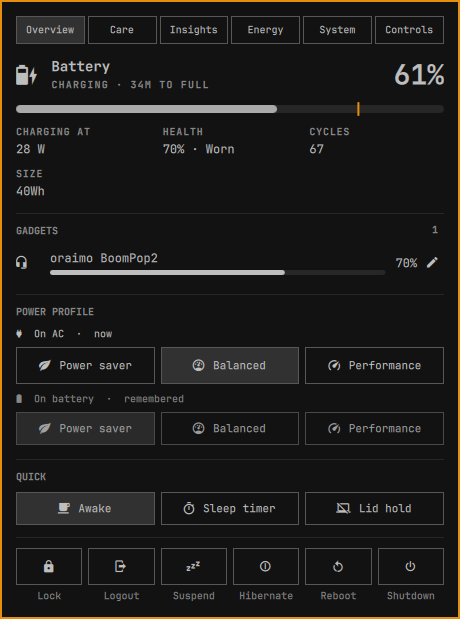
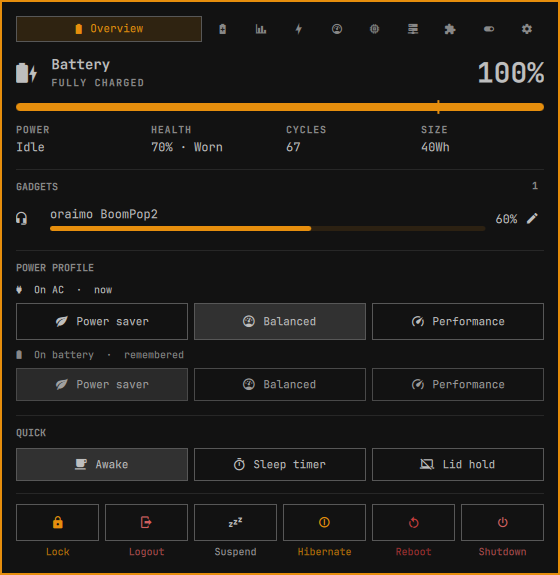
GPU memory, instant marketplace, new preview
System > Hardware: each GPU's memory (AMD VRAM from sysfs; NVIDIA total

and use from NVML while awake, the total remembered for when it sleeps,

plus the driver version; integrated Intel as shared memory with its top

clock).

Marketplace: the cached catalog shows at once; a stale one is refreshed

in the background and swapped in without rebuilding the cards.

System tab icon: a gauge (the old glyph was the Spotify logo).

Preview: the Overview, Processes and Plugins tabs under the new name;

CHANGELOG states the sampler's measured cost with its child commands.

diff --git a/docs/preview/preview.html b/docs/preview/preview.html
@@ -11,7 +11,7 @@
     --accent: #e68e0d;
   }
   * { box-sizing: border-box; margin: 0; padding: 0; }
-  html, body { width: 2000px; height: 1400px; background: var(--bg); }
+  html, body { width: 2000px; height: 1240px; background: var(--bg); }
   body {
     font-family: "JetBrainsMono Nerd Font", "JetBrains Mono", monospace;
     color: var(--text);
@@ -45,7 +45,7 @@
   figcaption span { font-size: 21px; color: var(--muted); white-space: nowrap; overflow: hidden; text-overflow: ellipsis; }
   .shots { justify-content: space-between; }
   figure img {
-    display: block; width: 580px; height: 780px; object-fit: cover; object-position: top;
+    display: block; width: 580px; height: 596px; object-fit: cover; object-position: top;
     border-radius: 4px;
     box-shadow: 0 30px 60px rgba(0, 0, 0, 0.55), 0 0 0 1px rgba(255, 255, 255, 0.03);
   }
@@ -66,7 +66,7 @@
       <div class="icon"></div>
       <div>
         <h1>OmniSystem <span>Center</span></h1>
-        <p class="tagline">Battery, energy, sensors, processes, ports and plugins in one panel.</p>
+        <p class="tagline">Your whole machine in one Omarchy panel.</p>
       </div>
     </div>
     <div class="pills">
@@ -85,22 +85,22 @@
       <img src="overview.png">
     </figure>
     <figure>
-      <figcaption><b>ENERGY</b><span>kWh and cost, measured share</span></figcaption>
-      <img src="energy.png">
+      <figcaption><b>PROCESSES</b><span>CPU, GPU, memory, end or kill</span></figcaption>
+      <img src="processes.png">
     </figure>
     <figure>
-      <figcaption><b>SYSTEM</b><span>sensors, GPUs, the hardware</span></figcaption>
-      <img src="system.png">
+      <figcaption><b>PLUGINS</b><span>installed, marketplace, the bar</span></figcaption>
+      <img src="plugins.png">
     </figure>
   </section>
 
   <section class="features">
-    <div class="f"><i></i><div><b>Live draw in the bar</b><p>What the machine draws, and a GPU icon with its watts while one is awake.</p></div></div>
-    <div class="f"><i></i><div><b>Energy and cost</b><p>Per day, week, month and year; never an estimate shown as a measurement.</p></div></div>
-    <div class="f"><i></i><div><b>Charge care</b><p>Limit, sailing, top-up, heat protection and calibration where the hardware allows.</p></div></div>
-    <div class="f"><i></i><div><b>Gadget batteries</b><p>Mice, keyboards, headsets and earbuds, per earbud and case.</p></div></div>
-    <div class="f"><i></i><div><b>Warnings that stick</b><p>Low and critical levels, with a countdown you can cancel.</p></div></div>
-    <div class="f"><i></i><div><b>Power at hand</b><p>Profiles per power source, keep awake, sleep timer, lock to shutdown.</p></div></div>
+    <div class="f"><i></i><div><b>Energy and cost</b><p>Live draw and GPU in the bar; kWh, cost and a monthly budget per day to year.</p></div></div>
+    <div class="f"><i></i><div><b>Battery care</b><p>Charge limit (kernel, Apple, UPower, Acer), sailing, top-up, heat protection.</p></div></div>
+    <div class="f"><i></i><div><b>System</b><p>Every sensor and GPU, memory, disk and swap, and what the machine is.</p></div></div>
+    <div class="f"><i></i><div><b>Ports</b><p>Listeners by project, how far each reaches, dev servers counted in the bar.</p></div></div>
+    <div class="f"><i></i><div><b>Plugins</b><p>Marketplace with reviewed installs, update previews, bar layout, widget settings.</p></div></div>
+    <div class="f"><i></i><div><b>Power at hand</b><p>Sleep checks, warnings, profiles, keep awake, timer, lock to shutdown.</p></div></div>
   </section>
 </body>
 </html>

diff --git a/lib/Model.js b/lib/Model.js
@@ -1352,6 +1352,21 @@ function swapText(swaps) {
   return parts.join(" · ")
 }
 
+// A GPU's memory in a few words: "6 GB VRAM · 344 MB used", "Shares system
+// memory · up to 1.45 GHz", "512 MB reserved + shared".
+function gpuMemoryText(mem) {
+  if (!mem) return ""
+  function gb(b) { return b >= 1073741824 ? (Math.round(b / 1073741824 * 10) / 10) + " GB" : Math.round(b / 1048576) + " MB" }
+  var parts = []
+  if (mem.total > 0 && mem.shared) parts.push(gb(mem.total) + " reserved + shared")
+  else if (mem.total > 0) parts.push(gb(mem.total) + " VRAM")
+  else if (mem.shared) parts.push("Shares system memory")
+  if (typeof mem.used === "number" && mem.used >= 0 && mem.total > 0) parts.push(gb(mem.used) + " used")
+  if (mem.maxMHz) parts.push("up to " + formatMHz(mem.maxMHz))
+  if (mem.driver) parts.push("driver " + mem.driver)
+  return parts.join(" · ")
+}
+
 // Everything on the System tab as plain text, for "Copy all". No serial
 // numbers are ever read, so none can end up here.
 function deviceSummary(dev, live) {
@@ -1376,7 +1391,10 @@ function deviceSummary(dev, live) {
   add("Memory", dev.memory && dev.memory.total ? formatBytes(dev.memory.total) : "")
   add("Disk", diskText(dev.storage))
   if (dev.storage && dev.storage.fs) add("Root", dev.storage.fs + (dev.storage.encrypted ? ", encrypted" : ""))
-  for (var i = 0; i < (dev.pci || []).length; i++) add(dev.pci[i].kind, dev.pci[i].name)
+  for (var i = 0; i < (dev.pci || []).length; i++) {
+    var mem = gpuMemoryText(dev.pci[i].memory)
+    add(dev.pci[i].kind, dev.pci[i].name + (mem ? " (" + mem + ")" : ""))
+  }
   for (var j = 0; j < (dev.usb || []).length; j++) add("USB", dev.usb[j].name)
   if (dev.battery) add("Battery", [dev.battery.maker, dev.battery.model, dev.battery.chemistry].filter(function(x) { return x }).join(" "))
   add("Uptime", formatUptime(l.uptime))
@@ -1469,7 +1487,7 @@ var TABS = {
   care: { icon: "", label: "Care", tint: ["green", "bright_green", "accent"] },
   insights: { icon: "", label: "Insights", tint: ["cyan", "bright_cyan", "accent"] },
   energy: { icon: "", label: "Energy", tint: ["yellow", "bright_yellow", "accent"] },
-  system: { icon: "", label: "System", tint: ["blue", "bright_blue", "accent"] },
+  system: { icon: "", label: "System", tint: ["blue", "bright_blue", "accent"] },
   processes: { icon: "", label: "Processes", tint: ["magenta", "bright_magenta", "accent"] },
   ports: { icon: "", label: "Ports", tint: ["orange", "red", "accent"] },
   plugins: { icon: "", label: "Plugins", tint: ["bright_blue", "blue", "accent"] },

diff --git a/Service.qml b/Service.qml
@@ -1651,13 +1651,25 @@ Item {
     run([pluginsCmd, "local"], null, function(code, out) {
       try { root.pluginLocal = JSON.parse(out) } catch (e) {}
     })
-    if (force || pluginCatalog.length === 0) {
+    // The copy here at once, then (when it is old, or asked) a fresh one in
+    // the background that replaces it when it lands.
+    if (pluginCatalog.length === 0) {
       catalogLoading = true
-      run(force ? [pluginsCmd, "catalog", "--refresh"] : [pluginsCmd, "catalog"], null, function(code, out) {
-        root.catalogLoading = false
-        try { var d = JSON.parse(out); root.pluginCatalog = d.plugins || []; root.catalogOffline = !!d.offline } catch (e) {}
+      run([pluginsCmd, "catalog", "--cached"], null, function(code, out) {
+        try {
+          var d = JSON.parse(out)
+          if (d.plugins && d.plugins.length && root.pluginCatalog.length === 0) root.pluginCatalog = d.plugins
+        } catch (e) {}
       })
     }
+    run(force ? [pluginsCmd, "catalog", "--refresh"] : [pluginsCmd, "catalog"], null, function(code, out) {
+      root.catalogLoading = false
+      try {
+        var d = JSON.parse(out)
+        if (d.plugins && d.plugins.length) root.pluginCatalog = d.plugins
+        root.catalogOffline = !!d.offline
+      } catch (e) {}
+    })
     run(force ? [pluginsCmd, "stats", "--refresh"] : [pluginsCmd, "stats"], null, function(code, out) {
       try { root.pluginStats = JSON.parse(out) } catch (e) {}
     })

diff --git a/tests/model.test.js b/tests/model.test.js
@@ -755,5 +755,13 @@ test("dev rules", () => {
   assert.deepStrictEqual(M.toggleDevProgram({ dev: "a, b", notDev: "" }, "a", false), { devPrograms: "b", notDevPrograms: "a" })
 })
 
+test("gpu memory text", () => {
+  assert.strictEqual(M.gpuMemoryText({ total: 6442450944, used: 361037824, shared: false, driver: "610.57.04" }), "6 GB VRAM · 344 MB used · driver 610.57.04")
+  assert.strictEqual(M.gpuMemoryText({ total: 0, used: null, shared: true, maxMHz: 1450 }), "Shares system memory · up to 1.45 GHz")
+  assert.strictEqual(M.gpuMemoryText({ total: 536870912, used: 100 * 1048576, shared: true }), "512 MB reserved + shared · 100 MB used")
+  assert.strictEqual(M.gpuMemoryText({ total: 8589934592, used: null, shared: false }), "8 GB VRAM", "asleep: the remembered total only")
+  assert.strictEqual(M.gpuMemoryText(null), "")
+})
+
 console.log(failures === 0 ? "\nAll tests passed." : `\n${failures} test(s) failed.`)
 process.exit(failures === 0 ? 0 : 1)

diff --git a/views/SystemView.qml b/views/SystemView.qml
@@ -373,7 +373,8 @@ Column {
         required property var modelData
         label: modelData.kind
         value: modelData.name
-        detail: [modelData.driver, modelData.asleep ? "asleep" : ""].filter(function(x) { return x }).join(" · ")
+        detail: [Model.gpuMemoryText(modelData.memory), modelData.memory && modelData.memory.driver ? "" : modelData.driver,
+                 modelData.asleep ? "asleep" : ""].filter(function(x) { return x }).join(" · ")
         foreground: view.fg
         fontFamily: view.ff
         onCopyRequested: function(t) { view.copy(t) }

diff --git a/tests/scripts_test.py b/tests/scripts_test.py
@@ -171,6 +171,26 @@ class DeviceTest(Fake):
         self.assertTrue(names["Graphics"]["asleep"])
         self.assertEqual(names["Ethernet"]["name"], "Realtek Killer E3000 2.5GbE Controller")
 
+    def test_gpu_memory(self):
+        put(self.root, "usr/share/hwdata/pci.ids", "1002  Advanced Micro Devices, Inc. [AMD/ATI]\n\t73bf  Navi 21 [Radeon RX 6800]\n"
+                                                    "8086  Intel Corporation\n\t9a68  TigerLake-H GT1 [UHD Graphics]\n")
+        amd = "sys/bus/pci/devices/0000:03:00.0/"
+        put(self.root, amd + "vendor", "0x1002\n")
+        put(self.root, amd + "device", "0x73bf\n")
+        put(self.root, amd + "class", "0x030000\n")
+        put(self.root, amd + "mem_info_vram_total", str(16 * 1024 ** 3) + "\n")
+        put(self.root, amd + "mem_info_vram_used", str(2 * 1024 ** 3) + "\n")
+        igpu = "sys/bus/pci/devices/0000:00:02.0/"
+        put(self.root, igpu + "vendor", "0x8086\n")
+        put(self.root, igpu + "device", "0x9a68\n")
+        put(self.root, igpu + "class", "0x030000\n")
+        put(self.root, igpu + "drm/card0/gt_max_freq_mhz", "1450\n")
+        gpus = {g["name"].split()[0]: g for g in self.device()["pci"] if g["kind"] == "Graphics"}
+        self.assertEqual(gpus["AMD"]["memory"], {"total": 16 * 1024 ** 3, "used": 2 * 1024 ** 3, "shared": False, "gtt": 0})
+        self.assertFalse(gpus["AMD"]["integrated"])
+        self.assertEqual(gpus["Intel"]["memory"], {"total": 0, "used": None, "shared": True, "maxMHz": 1450})
+        self.assertTrue(gpus["Intel"]["integrated"])
+
     def test_usb_skips_hubs_and_controllers(self):
         self.assertEqual([u["name"] for u in self.device()["usb"]], ["SunplusIT Inc HD User Facing"])
 

diff --git a/CHANGELOG.md b/CHANGELOG.md
@@ -101,9 +101,13 @@ panel had outgrown the battery; never released under that name.
   Controls and Care tabs and the Suspend and Hibernate buttons
   (docs/sleep.md).
 - Acer health mode (acer-wmi-battery) as a charge-limit backend.
+- System → Hardware: each GPU's memory (AMD VRAM and use from sysfs; NVIDIA
+  total and use from NVML while awake, the total remembered for when it
+  sleeps, and the driver version; integrated Intel as shared memory with its
+  top clock).
 - The background ports scan runs inside the energy sampler, and NVML stays
   open only while the NVIDIA card is awake: the sampler's cost fell from
-  about 560 ms to well under 100 ms of CPU a minute.
+  about 560 ms to about 150 ms of CPU a minute, the port scans included.
 - The panel is wider (560 px by default), the tabs sit fixed above the
   content, with the open tab named in its own theme colour and the others
   as icons, and colours (graphs, meters, the power buttons) follow the

diff --git a/README.md b/README.md
@@ -16,7 +16,7 @@ firmware lets it cap the charge gets a charge limit, sailing mode, top-up and
 heat protection; one that cannot gets an unplug reminder instead. A desktop
 gets its gadgets first and no battery section at all.
 
-![OmniSystem Center: the Overview, Energy and System tabs](preview.png)
+![OmniSystem Center: the Overview, Processes and Plugins tabs](preview.png)
 
 OmniSystem Center replaces Omarchy's built-in **Power** widget, so it sits
 where that one was and answers the same `omarchy.power` commands. Disable it
